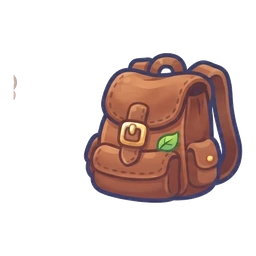
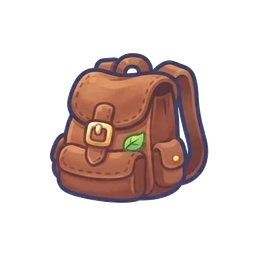
UI 시인성/레이아웃 실측 수정: 가방 아이콘 중심 이탈, 이동힌트-스킬바 겹침, 토스트-시트 z-index 충돌, 쉼터 버튼 과다 폭 4건 (던파 모바일 벤치마킹)
사용자가 실기 화면을 보며 실시간으로 제보한 4가지 UI 결함을 각각 픽셀 단위로
측정해 원인을 확정하고 고쳤다. 모두 "왜 그렇게 보이는지"를 코드/좌표로 확인한
뒤에만 손댔다(추측 금지 원칙).

1) art/ui_bag.webp — 가방 아이콘이 오른쪽으로 치우쳐 보인다는 제보.
   연결요소 분석 결과 배낭 본체(18835px)의 실제 중심이 (162.5,127.5)로 캔버스
   중심(128,128)에서 34.5px 벗어나 있었고, 왼쪽에는 본체와 분리된 75px짜리
   잔여 파편이 남아 있어 단순 알파 bbox로는 "우연히 대칭"으로 보였다. 파편을
   지우고 본체를 34px 재중심화. 나머지 8개 UI 아이콘(장비·펫·만들기·도감·지도
   등)도 전수 검사했으나 결함은 이 파일 하나뿐이었다(장식적 비대칭은 정상).

2) .movehint — "여기를 밀어서 걸어 다녀요" 안내문이 실제 폰 해상도(390×844)에서
   스킬바에 100% 파묻혀 있었다. 원인은 이 요소의 offsetParent 가 화면 전체가
   아니라 .dock(스킬바) 자신이라 bottom:54px 도, 재시도한 bottom:28% 도 전부
   .dock 자신의 높이(폰 175px~태블릿 244px) 기준으로 계산됐기 때문. bottom:
   calc(100% + 10px) 로 바꿔 부모(.dock) 높이와 무관하게 항상 그 바로 위 10px에
   붙게 했다(두 해상도 모두 실측 재확인). 배경 불투명도 0.34→0.72, 페이드
   애니메이션 최저치 0.55→0.84, 폰트 11~13px→13~16px 로 가독성도 같이 올렸다.

3) 토스트(#toasts) vs 시트(.sheet) z-index 충돌 — 시트를 연 채로 3.2~8.2초
   구간에 걸리면 "빨간 공격 버튼으로 몬스터를 물리쳐요" 토스트가 시트 헤더
   글자 위에 그대로 겹쳤다. layout() 이 #toasts 에 박아 두는 인라인
   top(=HUD 바로 아래)이 인라인이라 CSS 특이성을 다 이기면서, body.sheeting
   이 노리던 top:auto 규칙을 무력화해 컨테이너가 화면 위쪽부터 늘어나 있었다.
   openSheet/closeSheet 양쪽에서 repositionToasts() 를 새로 호출해, 열려있으면
   인라인 top 을 비우고(CSS 하단 배치가 이기도록) 닫히면 원래 위치로 되돌린다.

4) 쉼터 하단 버튼 — "침대에 눕기"가 내용 대비 8배 이상 넓은 빈 초록/파랑
   막대였다는 제보(던파 모바일은 여백을 실제 정보로 채운다는 비교 참고).
   공용 .bigbtn 클래스(다른 화면 다수가 width:100% 를 그대로 써야 함)는 건드리지
   않고, 침대 버튼 이 인스턴스만 내용 크기로 줄였다. 던전 입구·별빛의 탑 버튼은
   폭은 유지하되(주 동선이라 큰 탭 영역이 맞음) 빈 공간에 그 던전의 실제
   몬스터 초상화(이미 굽는 AI 스프라이트 재사용, ensureMob+iconTight)를 넣어
[…]

Changed region(s): [[0.1875, 0.1875, 0.9688, 0.8125], [0.0312, 0.2812, 0.0625, 0.4062]]

diff --git a/game.html b/game.html
@@ -219,14 +219,20 @@ button{
 .quest .qbar{flex:1 1 20px;min-width:18px;max-width:130px;height:10px;border-radius:99px;background:#E7D7BC;border:2px solid var(--ink);overflow:hidden;display:block}
 .quest .qbar b{display:block;height:100%;width:0%;border-radius:99px;background:linear-gradient(180deg,#FFE47A,#E5A50F);transition:width .25s}
 .movehint{
-  position:absolute; left:calc(var(--safe-l) + clamp(8px,3vw,26px)); bottom:calc(var(--safe-b) + 54px);
-  font-size:clamp(11px,3vw,13px);color:#fff;text-align:center;line-height:1.3;
-  text-shadow:0 2px 0 rgba(44,33,25,.9),0 0 8px rgba(0,0,0,.55);
-  background:rgba(28,20,14,.34);border-radius:14px;padding:6px 12px;
-  border:2px dashed rgba(255,255,255,.5);pointer-events:none;
+  /* ★ 2026-09-01 — 실측 결과 #moveHint 의 offsetParent 가 화면 전체가 아니라 .dock
+     자신이었다(DOM상 .dock 안에 들어있다). 그래서 bottom:54px 도, 한 번 고쳐 본 bottom:28%
+     도 전부 '.dock 자신의 높이(폰 175px~태블릿 244px)' 기준으로 계산되어 스킬바 안에
+     그대로 파묻혔다(사용자 제보 "글씨가 잘 안보인다" — 실제로 스킬 아이콘에 100% 가려짐).
+     bottom:100% 는 부모(.dock) 높이가 얼마든 정확히 그 위쪽 경계에 붙으므로, 어떤
+     해상도에서도 항상 스킬바 바로 위 여백에 뜬다. */
+  position:absolute; left:calc(var(--safe-l) + clamp(8px,3vw,26px)); bottom:calc(100% + 10px);
+  font-size:clamp(13px,3.6vw,16px);color:#fff;text-align:center;line-height:1.3;
+  text-shadow:0 2px 0 rgba(44,33,25,.95),0 0 8px rgba(0,0,0,.65);
+  background:rgba(28,20,14,.72);border-radius:14px;padding:7px 13px;
+  border:2px dashed rgba(255,255,255,.65);pointer-events:none;
   animation:hintFade 1.6s ease-in-out infinite;
 }
-@keyframes hintFade{0%,100%{opacity:.55}50%{opacity:1}}
+@keyframes hintFade{0%,100%{opacity:.84}50%{opacity:1}}
 .movehint.gone{display:none}
 .stage-tag{
   align-self:center;margin-top:2px;
@@ -11254,12 +11260,9 @@ function layout(){
   initAmb();
   /* 토스트를 HUD 실제 높이 바로 아래에 붙인다 (화면 크기와 무관하게 안 겹치도록) */
   try{
-    var hudEl=document.querySelector('.hud'), tEl=document.getElementById('toasts');
+    repositionToasts();
+    var hudEl=document.querySelector('.hud');
     var fb=frameEl.getBoundingClientRect();
-    if(hudEl&&tEl){
-      var hb=hudEl.getBoundingClientRect();
-      tEl.style.top=Math.round(hb.bottom-fb.top+8)+'px';
-    }
     /* 안내 화살표가 HUD·버튼 뒤로 숨지 않도록 '진짜 빈 화면' 영역을 재어 둔다 */
     var dkEl=document.querySelector('.dock');
     UI_SAFE.t = hudEl? Math.round(hudEl.getBoundingClientRect().bottom-fb.top)+10 : 74;
@@ -18080,6 +18083,24 @@ function pill(txt,src,short){
 }
 
 function nowMs(){ try{ return performance.now(); }catch(e){ return 0; } }
+/* ★ 2026-09-01 — 실측 발견 : 토스트("빨간 공격 버튼으로...")가 시트(가방 등) 위로
+   그대로 겹쳐 보였다(사용자 제보 "글씨가 잘 안보인다"). 원인 : layout() 이 #toasts 에
+   인라인 top(=HUD 바로 아래)을 박아 두는데, 시트가 열려도 이 인라인 값은 그대로 남는다.
+   인라인 스타일은 CSS 우선순위를 전부 이기므로, body.sheeting 이 노리는
+   'top:auto;bottom:14px' 규칙 중 top 쪽이 죽어 컨테이너가 위에서부터 늘어나 버렸다.
+   시트가 열리고 닫힐 때마다 이 함수로 다시 계산해서, 열려 있으면 인라인 top 을 비워
+   CSS(하단 배치)가 이기게 하고, 닫히면 원래의 'HUD 바로 아래' 로 되돌린다. */
+function repositionToasts(){
+  try{
+    if(!toastBox) return;
+    if(document.body.classList.contains('sheeting')){ toastBox.style.top=''; return; }
+    var hudEl=document.querySelector('.hud');
+    if(hudEl&&frameEl){
+      var fb=frameEl.getBoundingClientRect(), hb=hudEl.getBoundingClientRect();
+      toastBox.style.top=Math.round(hb.bottom-fb.top+8)+'px';
+    }
+  }catch(e){}
+}
 var sheetOpenedAt=-1e9;
 function openSheet(kind,tab){
   /* 메뉴를 열 때 손에 남아 있던 입력을 전부 놓는다.
@@ -18090,6 +18111,7 @@ function openSheet(kind,tab){
   sheetOpenedAt=nowMs();
   sheetEl.classList.toggle('sheetVillage', kind==='village');
   sheetEl.classList.add('on'); document.body.classList.add('sheeting');
+  repositionToasts();
   sheetOpen=true; stopLoop(); saveGame();
   renderSheet();
 }
@@ -18099,6 +18121,7 @@ function closeSheet(){
   setTimeout(function(){
     sheetIn.classList.remove('out'); sheetEl.classList.remove('on');
     document.body.classList.remove('sheeting');
+    repositionToasts();
     sheetOpen=false; curSheet=null; startLoop();
   },200);
 }
@@ -20379,30 +20402,58 @@ function renderVillage(){
   /* ★ 2026-08-31 신규 — "침대에 누워자는 기능의 버튼도 추가해줘" 요청: 소품이 된
      침대를 직접 탭해도 자지만(fn 태그), 눈에 잘 띄는 전용 버튼도 따로 둔다.
      지금 방에 "사용 중"인 침대가 있을 때만 보인다(다른 방으로 옮기면 그 방에서만). */
+  /* ★ 2026-09-01 — 사용자 제보 "버튼들이 너무 쓸데없이 가로로 긴것들이 있다" (던파
+     모바일처럼 UI 여백을 실제 정보로 채우라는 요청) 실측 : 침대에 눕기 버튼은 글자
+     3어절인데 폭이 화면 전체(약 900px, 내용 대비 8배 이상)였다 — 빈 색만 깔린 채였다.
+     ① 침대 버튼은 .bigbtn 공통 클래스(다른 화면 다수가 씀 — width:100% 유지가 안전)를
+        건드리지 않고, 이 인스턴스만 내용 크기로 줄이고 가운데 둔다.
+     ② 던전 입구·별빛의 탑 버튼은 폭을 유지하되(주 동선이라 큰 탭 영역이 맞다), 빈
+        공간을 채우도록 그 던전의 실제 몬스터 초상화를 넣는다 — 새 그림을 그리지 않고
+        이미 있는 AI 그림(종족 스프라이트)을 재사용한다(절대규칙 : AI 그림만 사용). */
   try{
     var Dfb=decorState();
     var bedPos=Dfb.pos[Dfb.use.bed];
     if(bedPos && bedPos.room===R.cur){
       var sleepBtn=el('button','bigbtn','🛏  침대에 눕기');
       sleepBtn.style.cssText='min-height:44px;font-size:14px;background:linear-gradient(180deg,#8FA7FF,#4C63C9);'+
-        'color:#fff;border-color:#2E3F8F';
+        'color:#fff;border-color:#2E3F8F;width:auto;align-self:center;padding-left:22px;padding-right:22px';
       sleepBtn.addEventListener('click',function(e){ e.stopPropagation(); villageSleep(wrap); });
       bar.appendChild(sleepBtn);
     }
   }catch(e){}
 
+  /* 버튼 안에 넣을 작은 원형 몬스터 초상화 — 이미 굽는 종족 스프라이트를 그대로 재사용 */
+  function navThumb(mobKey){
+    try{
+      var mc=ensureMob(mobKey); if(!mc) return null;
+      var ic=iconTight(mc.n, 40, 'navthumb_'+mobKey);
+      var wrap2=el('div'); wrap2.style.cssText='width:40px;height:40px;border-radius:50%;overflow:hidden;'+
+        'background:rgba(255,255,255,.24);border:2px solid rgba(255,255,255,.75);flex:none;'+
+        'display:flex;align-items:center;justify-content:center;box-shadow:0 2px 4px rgba(0,0,0,.3)';
+      wrap2.appendChild(ic);
+      return wrap2;
+    }catch(e){ return null; }
+  }
+
   var row=el('div'); row.style.cssText='display:flex;gap:10px';
   var lockLeft=Math.max(0, Math.ceil(((S.villageLockUntil||0)-nowMs())/1000));
-  var goDun=el('button','bigbtn', lockLeft>0? ('💤  '+lockLeft+'초만 더 쉬어요') : '🌲  던전 입구로');
+  var goDun=el('button','bigbtn');
   goDun.style.cssText+=';flex:1;min-height:52px;font-size:16px';
   if(lockLeft>0){ goDun.style.cssText+=';filter:grayscale(.5);opacity:.75'; }
+  else { var dunThumb=navThumb(chapBoss(S.chap)); if(dunThumb) goDun.appendChild(dunThumb); }
+  goDun.appendChild(el('span', null, lockLeft>0? ('💤  '+lockLeft+'초만 더 쉬어요') : '🌲  던전 입구로'));
   goDun.addEventListener('click',function(){
     var left=Math.max(0, Math.ceil(((S.villageLockUntil||0)-nowMs())/1000));
     if(left>0){ SFX.no&&SFX.no(); toast('아직 '+left+'초 더 쉬어야 해요 💤','warn',null,1600); return; }
     SFX.coin(); closeSheet(); enterWorldHints();
   });
-  var goTw=el('button','bigbtn','🌌  별빛의 탑');
+  var goTw=el('button','bigbtn');
   goTw.style.cssText='flex:1;min-height:52px;font-size:16px;background:linear-gradient(180deg,#9B7BFF,#6B45D9);color:#fff;border-color:#4B2E9E';
+  try{
+    var twThumb=navThumb(chapBoss(twChap(Math.max(1,twBest()+1))));
+    if(twThumb) goTw.appendChild(twThumb);
+  }catch(e){}
+  goTw.appendChild(el('span', null, '🌌  별빛의 탑'));
   goTw.addEventListener('click',function(){ SFX.coin(); openSheet('map',1); });
   row.appendChild(goDun); row.appendChild(goTw);
   bar.appendChild(row);
